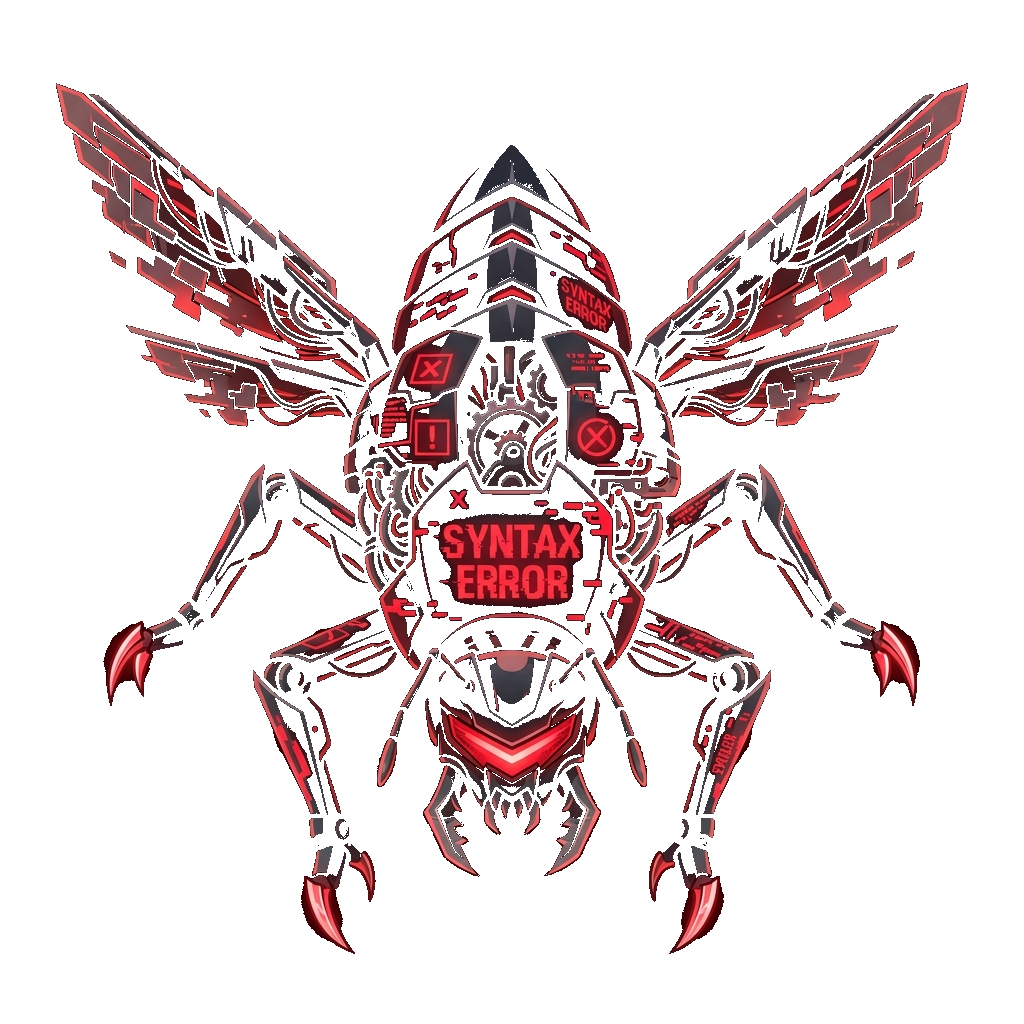
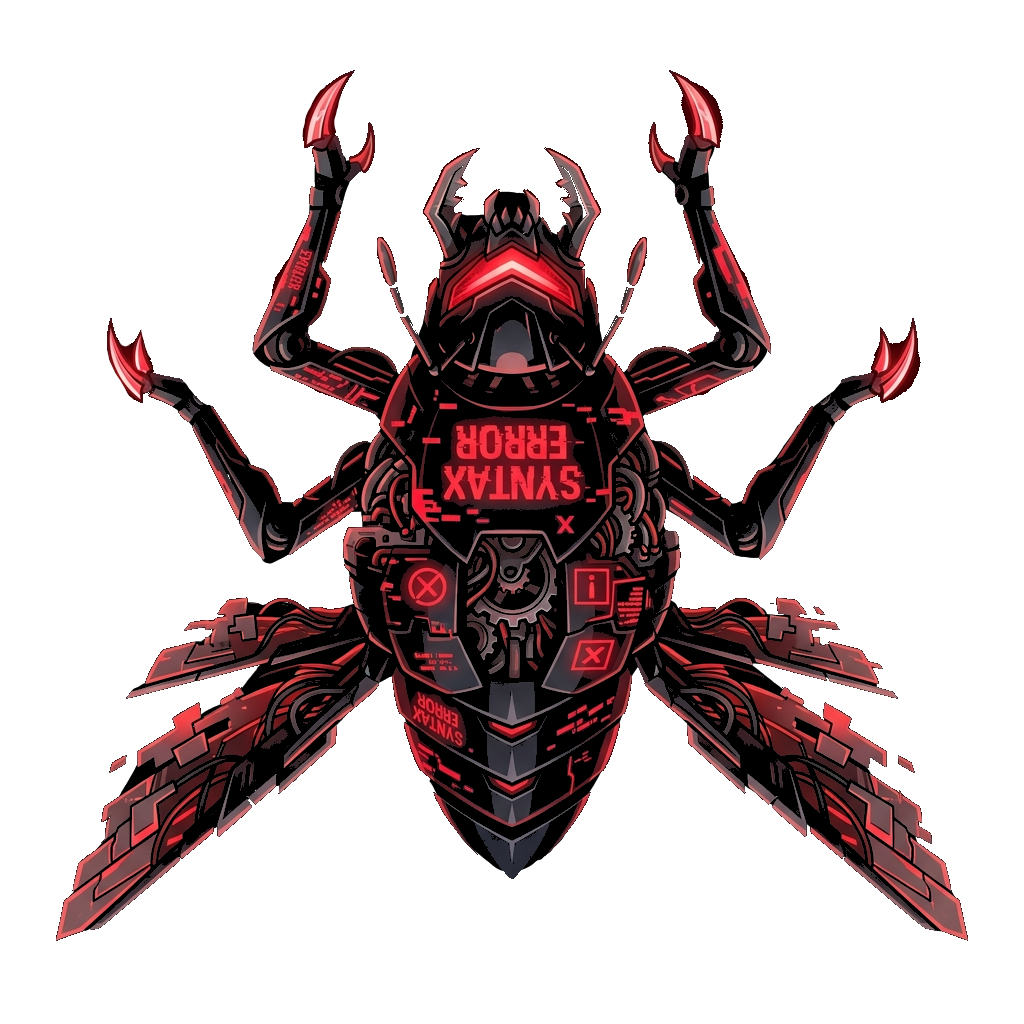
Refactor code structure for improved readability and maintainability

diff --git a/Flutter/lib/modules/game/ui/flame_game/components/entities/meteor_entity.dart b/Flutter/lib/modules/game/ui/flame_game/components/entities/meteor_entity.dart
@@ -10,24 +10,36 @@ import 'player_entity.dart';
 import '../../astro_game.dart';
 import '../../../../logic/bloc/game_bloc.dart';
 
-class MeteorEntity extends PositionComponent with MovementBehavior, HealthBehavior, HasGameReference<AstroGame>, CollisionCallbacks {
+class MeteorEntity extends PositionComponent
+    with
+        MovementBehavior,
+        HealthBehavior,
+        HasGameReference<AstroGame>,
+        CollisionCallbacks {
   late List<Vector2> _vertices;
   double rotSpeed = 0;
   Color meteorColor = const Color(0xFF4A3C31);
 
   MeteorEntity() : super(anchor: Anchor.center) {
     final random = Random();
-    size = Vector2.all(30 + random.nextDouble() * 50); // Random size between 30 and 80
+    size = Vector2.all(
+      30 + random.nextDouble() * 50,
+    ); // Random size between 30 and 80
     health = (size.x).toInt(); // Health based on size
-    
-    speed = 20.0 + random.nextDouble() * 30; // Slower meteors
+
+    speed = 20.0 + random.nextDouble() * 30;
     velocity = Vector2((random.nextDouble() - 0.5) * 30, speed);
     rotSpeed = (random.nextDouble() - 0.5) * 2;
-    
+
     // Randomize color slightly
-    final colors = [const Color(0xFF4A3C31), const Color(0xFF5A4D41), const Color(0xFF3A2E25), const Color(0xFF2A2A2A)];
+    final colors = [
+      const Color(0xFF4A3C31),
+      const Color(0xFF5A4D41),
+      const Color(0xFF3A2E25),
+      const Color(0xFF2A2A2A),
+    ];
     meteorColor = colors[random.nextInt(colors.length)];
-    
+
     _generateShape();
   }
 
@@ -44,8 +56,11 @@ class MeteorEntity extends PositionComponent with MovementBehavior, HealthBehavi
     int points = 6 + random.nextInt(4); // 6 to 9 edges
     for (int i = 0; i < points; i++) {
       double angle = (i / points) * 2 * pi;
-      double r = (size.x / 2) * (0.6 + random.nextDouble() * 0.4); // Irregular radius
-      _vertices.add(Vector2(size.x/2 + r * cos(angle), size.y/2 + r * sin(angle)));
+      double r =
+          (size.x / 2) * (0.6 + random.nextDouble() * 0.4); // Irregular radius
+      _vertices.add(
+        Vector2(size.x / 2 + r * cos(angle), size.y / 2 + r * sin(angle)),
+      );
     }
   }
 
@@ -55,7 +70,9 @@ class MeteorEntity extends PositionComponent with MovementBehavior, HealthBehavi
     angle += rotSpeed * dt;
     position.add(velocity * dt);
 
-    if (position.y > game.size.y + 100) {
+    if (position.y > game.size.y + 100 ||
+        position.x < -100 ||
+        position.x > game.size.x + 100) {
       removeFromParent();
     }
   }
@@ -83,27 +100,30 @@ class MeteorEntity extends PositionComponent with MovementBehavior, HealthBehavi
   }
 
   @override
-  void onCollisionStart(Set<Vector2> intersectionPoints, PositionComponent other) {
+  void onCollisionStart(
+    Set<Vector2> intersectionPoints,
+    PositionComponent other,
+  ) {
     super.onCollisionStart(intersectionPoints, other);
 
     if (other is PlayerEntity) {
       // Hit player!
       other.takeDamage(1);
       // Meteor takes huge damage from crashing into ship
-      takeDamage(100); 
+      takeDamage(100);
     }
   }
 
   @override
   void takeDamage(int amount) {
     super.takeDamage(amount);
-    
+
     // Knockback/stutter
     position.y -= 5;
-    
+
     if (health <= 0) {
-       onDeath();
-       removeFromParent();
+      onDeath();
+      removeFromParent();
     }
   }
 
@@ -113,25 +133,33 @@ class MeteorEntity extends PositionComponent with MovementBehavior, HealthBehavi
     HapticFeedback.mediumImpact();
     FlameAudio.play('explosion.wav', volume: 0.6);
     game.gameBloc.add(GameEvent.scoreIncreased((size.x).toInt()));
-    
+
     // Particle explosion
     final random = Random();
-    game.add(ParticleSystemComponent(
-      particle: Particle.generate(
-        count: 10,
-        lifespan: 0.5,
-        generator: (i) {
-          return AcceleratedParticle(
-            acceleration: Vector2((random.nextDouble() - 0.5) * 100, (random.nextDouble() - 0.5) * 100),
-            speed: Vector2((random.nextDouble() - 0.5) * 200, (random.nextDouble() - 0.5) * 200),
-            position: position.clone(),
-            child: CircleParticle(
-              radius: 1.0 + random.nextDouble() * 3.0,
-              paint: Paint()..color = meteorColor,
-            ),
-          );
-        },
+    game.add(
+      ParticleSystemComponent(
+        particle: Particle.generate(
+          count: 10,
+          lifespan: 0.5,
+          generator: (i) {
+            return AcceleratedParticle(
+              acceleration: Vector2(
+                (random.nextDouble() - 0.5) * 100,
+                (random.nextDouble() - 0.5) * 100,
+              ),
+              speed: Vector2(
+                (random.nextDouble() - 0.5) * 200,
+                (random.nextDouble() - 0.5) * 200,
+              ),
+              position: position.clone(),
+              child: CircleParticle(
+                radius: 1.0 + random.nextDouble() * 3.0,
+                paint: Paint()..color = meteorColor,
+              ),
+            );
+          },
+        ),
       ),
-    ));
+    );
   }
 }

diff --git a/Flutter/lib/modules/game/ui/flame_game/components/background/starfield.dart b/Flutter/lib/modules/game/ui/flame_game/components/background/starfield.dart
@@ -1,70 +1,18 @@
-import 'dart:math';
 import 'package:flame/components.dart';
 import 'package:flutter/material.dart';
 import '../../astro_game.dart';
 
 class StarfieldComponent extends Component with HasGameReference<AstroGame> {
-  final int count = 80;
-  final List<_Star> _stars = [];
-  late Vector2 gameSize;
+  late Sprite bgSprite;
 
   @override
-  void onGameResize(Vector2 size) {
-    super.onGameResize(size);
-    gameSize = size;
-    if (_stars.isEmpty) {
-      final random = Random();
-      for (int i = 0; i < count; i++) {
-        _stars.add(_Star(
-          x: random.nextDouble() * size.x,
-          y: random.nextDouble() * size.y,
-          speed: 20 + random.nextDouble() * 150, // Depth parallax
-          radius: 0.5 + random.nextDouble() * 2.5,
-          alpha: 0.3 + random.nextDouble() * 0.7,
-        ));
-      }
-    }
-  }
-
-  @override
-  void update(double dt) {
-    for (var star in _stars) {
-      star.y += star.speed * dt;
-      if (star.y > gameSize.y) {
-        star.y = 0;
-        star.x = Random().nextDouble() * gameSize.x;
-      }
-    }
+  Future<void> onLoad() async {
+    super.onLoad();
+    bgSprite = await Sprite.load('space_bg.jpg');
   }
 
   @override
   void render(Canvas canvas) {
-    // Deep Space Gradient Background
-    final Rect bgRect = Rect.fromLTWH(0, 0, gameSize.x, gameSize.y);
-    final bgPaint = Paint()
-      ..shader = LinearGradient(
-        colors: game.currentConfig.bgGradient,
-        begin: Alignment.topCenter,
-        end: Alignment.bottomCenter,
-      ).createShader(bgRect);
-    canvas.drawRect(bgRect, bgPaint);
-
-    // Render stars
-    for (var star in _stars) {
-      final paint = Paint()
-        ..color = Colors.white.withValues(alpha: star.alpha);
-      canvas.drawRect(Rect.fromLTWH(star.x, star.y, star.radius * 2, star.radius * 2), paint);
-    }
+    bgSprite.render(canvas, size: game.size);
   }
-}
-
-class _Star {
-  double x, y, speed, radius, alpha;
-  _Star({
-    required this.x,
-    required this.y,
-    required this.speed,
-    required this.radius,
-    required this.alpha,
-  });
 }

diff --git a/Flutter/lib/modules/game/ui/flame_game/components/entities/player_entity.dart b/Flutter/lib/modules/game/ui/flame_game/components/entities/player_entity.dart
@@ -6,6 +6,7 @@ import 'package:flutter/material.dart';
 import 'package:shared_preferences/shared_preferences.dart';
 import 'package:flame/components.dart';
 import 'package:flame/particles.dart';
+import 'package:flame/effects.dart';
 import '../base/base_sprite_entity.dart';
 import '../base/behaviors.dart';
 import '../projectiles/projectile.dart';
@@ -277,8 +278,8 @@ class PlayerEntity extends BaseSpriteEntity with HealthBehavior {
 
     HapticFeedback.lightImpact();
 
-    // Shoot recoil (knockback)
-    position.y = (position.y + 10).clamp(size.y / 2, game.size.y - size.y / 2);
+    // Shoot recoil (knockback with return effect)
+    add(MoveEffect.by(Vector2(0, 8), EffectController(duration: 0.05, alternate: true)));
 
     if (activeWeapon == PowerUpType.flutter) {
       // Dual lasers with spread based on level

diff --git a/Flutter/lib/modules/game/ui/flame_game/components/projectiles/projectile.dart b/Flutter/lib/modules/game/ui/flame_game/components/projectiles/projectile.dart
@@ -80,7 +80,8 @@ class Projectile extends PositionComponent
   void update(double dt) {
     super.update(dt);
     // Remove if it goes off-screen
-    if (position.y < -50 || position.y > game.size.y + 50) {
+    if (position.y < -50 || position.y > game.size.y + 50 || 
+        position.x < -50 || position.x > game.size.x + 50) {
       removeFromParent();
     }
   }